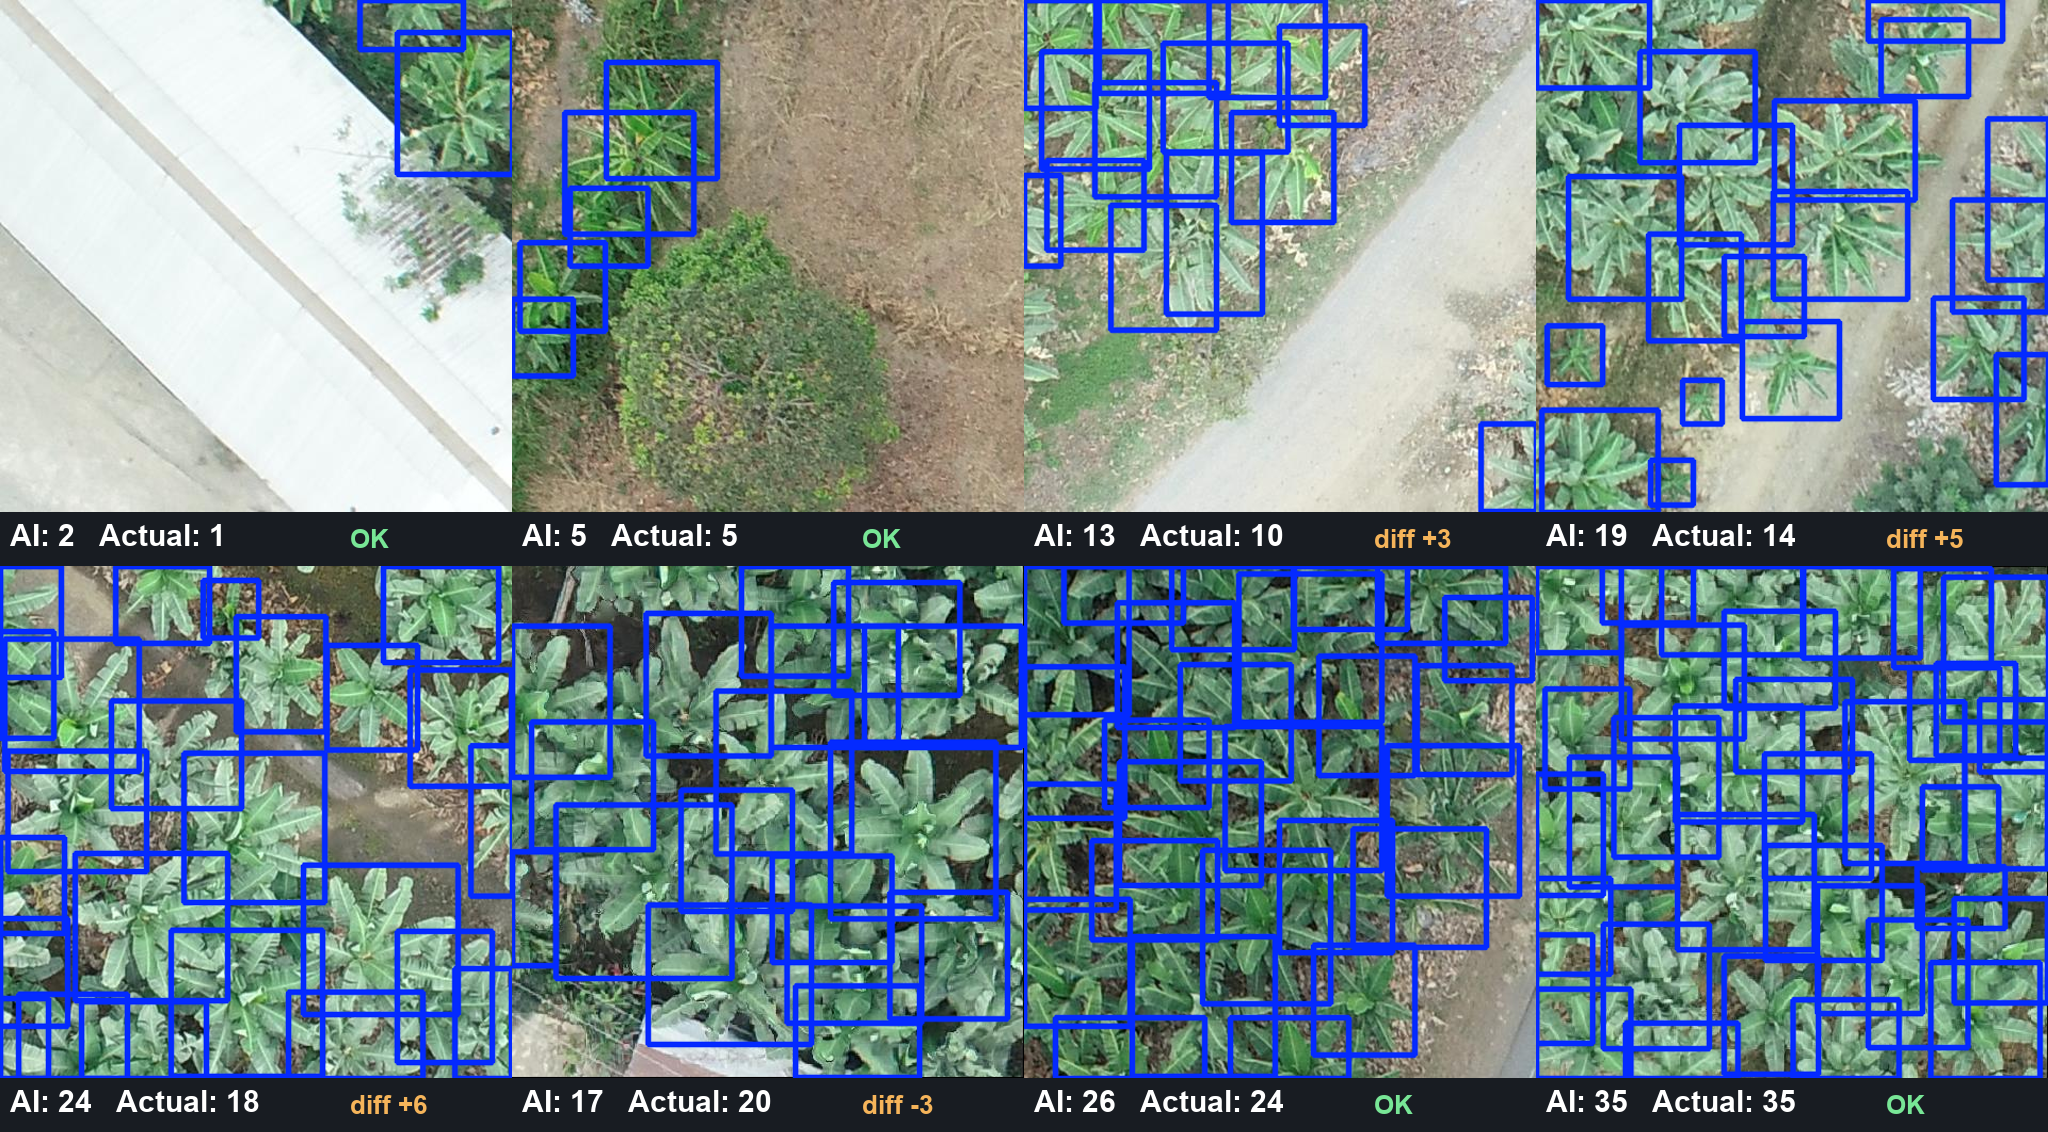
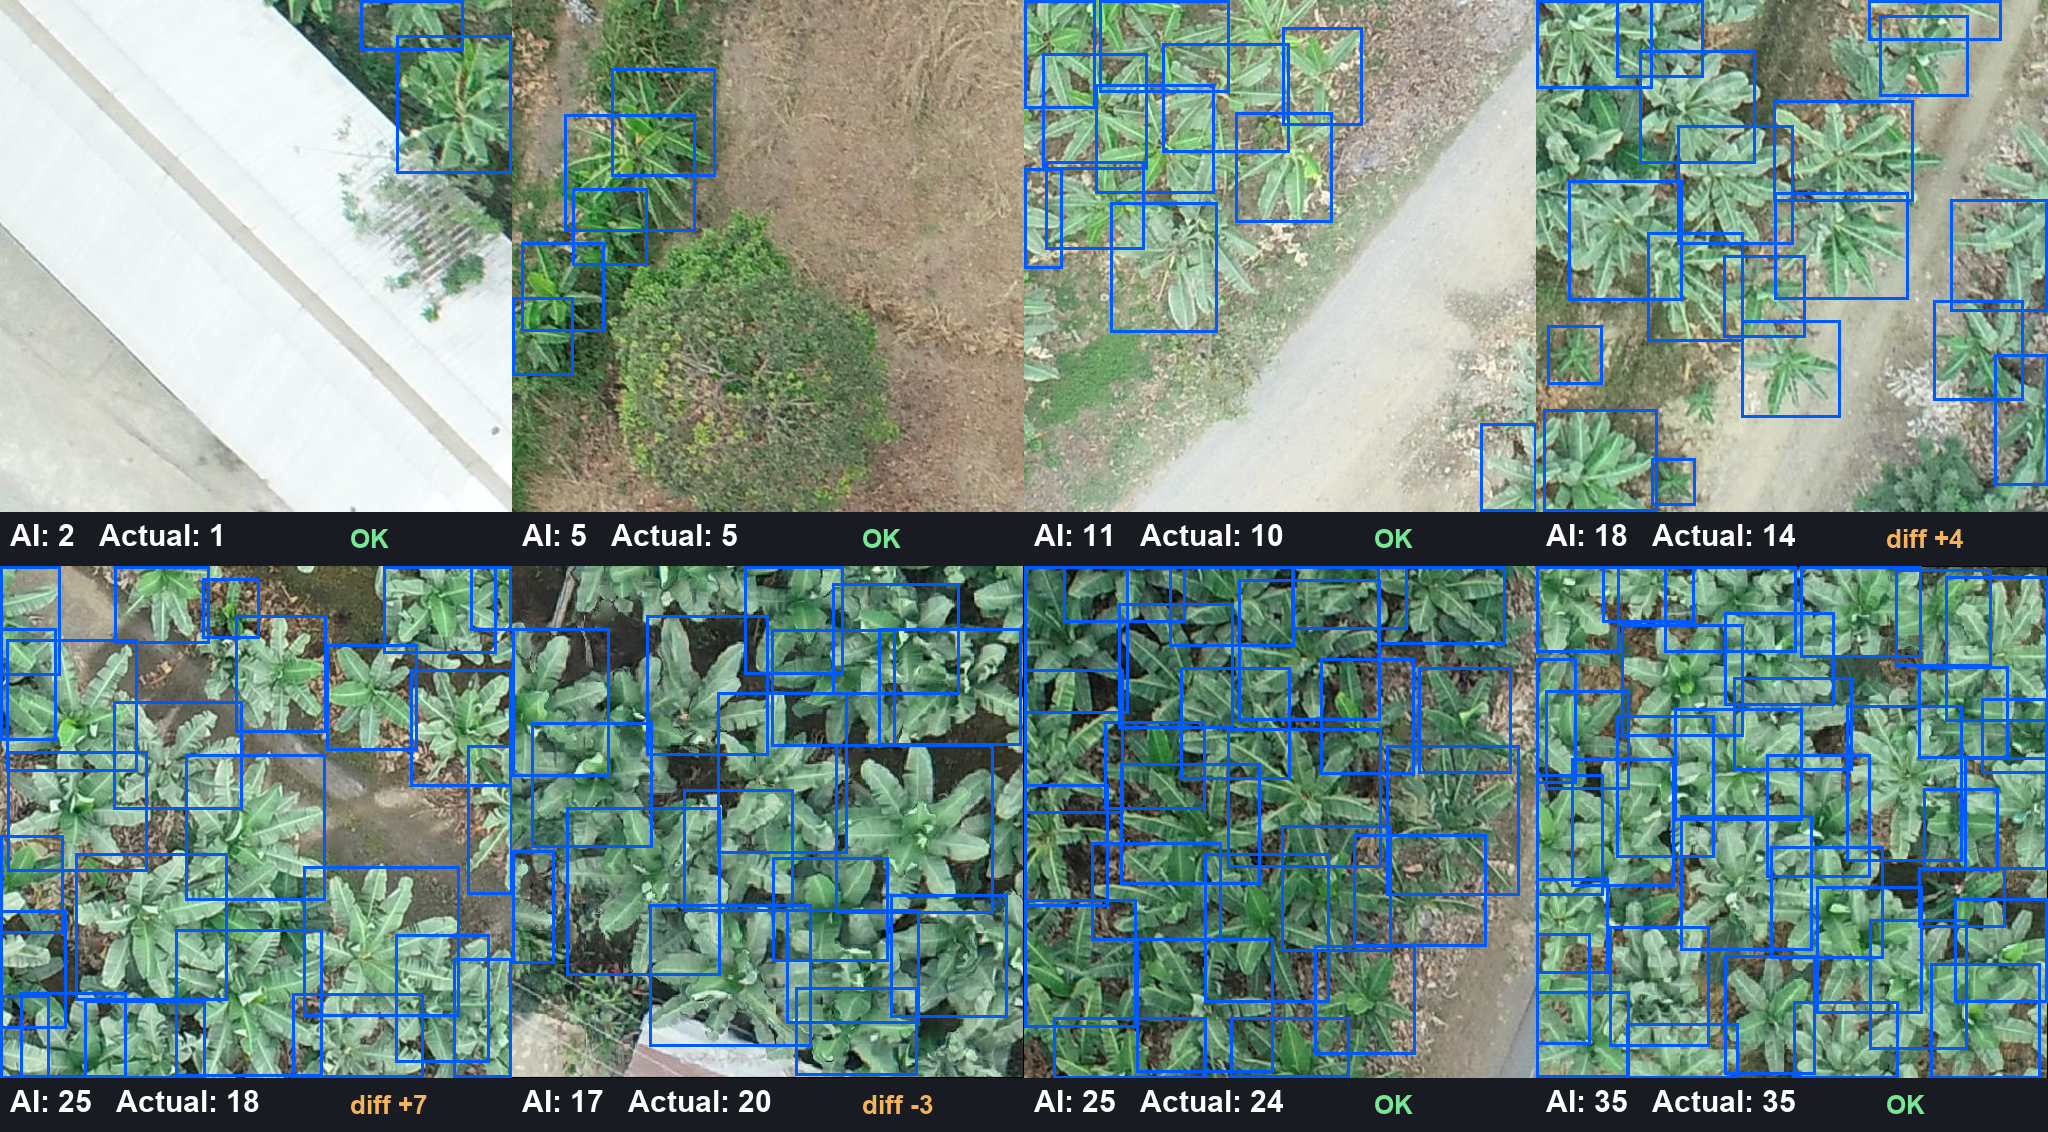
Evidencia visual actualizada al ensemble v5+v7

diff --git a/docs/evidence/README.md b/docs/evidence/README.md
@@ -1,8 +1,8 @@
 # Counting evidence — BananaVision
 
-Visual proof of the real `banana_real_v7.pt` model counting banana plants on
-**200 real UAV images the model NEVER saw** (`valid` + `test` splits of the
-count-banana-plants dataset). Fully reproducible with the scripts in `real_data/`.
+Visual proof of the **ensemble** (`banana_real_v5.pt` + `banana_real_v7.pt`, Weighted Boxes
+Fusion) counting banana plants on **200 real UAV images the models NEVER saw** (`valid` + `test`
+splits of the count-banana-plants dataset). Fully reproducible with the scripts in `real_data/`.
 
 ## 1. AI count vs real count
 
@@ -11,9 +11,9 @@ count-banana-plants dataset). Fully reproducible with the scripts in `real_data/
 Each point is an image (X = real plants, Y = plants counted by the AI). The diagonal
 is a perfect count.
 
-- **TOTAL: 3,132 real plants vs 3,162 counted → 99.0 % in this batch.**
-- **Count accuracy validated by cross-validation (5 folds): 99.2 %** (0.8 % error).
-  See `models/registry/real_v7_count_calibration.json`.
+- **TOTAL: 3,132 real plants vs 3,141 counted → 99.7 % in this batch.**
+- **Best detection quality of the model line: F1 0.89** (precision 0.905, recall 0.878),
+  fusing YOLOv8m (v5) + YOLO11m (v7). See `models/registry/real_ensemble_acceptance.json`.
 
 ## 2. Detection on real plants
 
@@ -28,7 +28,7 @@ ranging from sparse to very dense.
 
 - **YES:** the **aggregate crop count over an area** is accurate to ~**98 %**. This is the
   metric a farm needs for its total inventory.
-- **It does NOT** mean detecting 98 % of the plants one by one: the **per-plant recall is ~0.86**.
+- **It does NOT** mean detecting 98 % of the plants one by one: the **per-plant recall is ~0.88**.
   In dense clumps some plants are occluded from an overhead view, unrecoverable in 2D.
 - **Density/domain bias (important and honest):** with a fixed threshold, sparse zones
   **over-count** (~+13 %) and dense zones **under-count** (~−23 %). Over an area of mixed